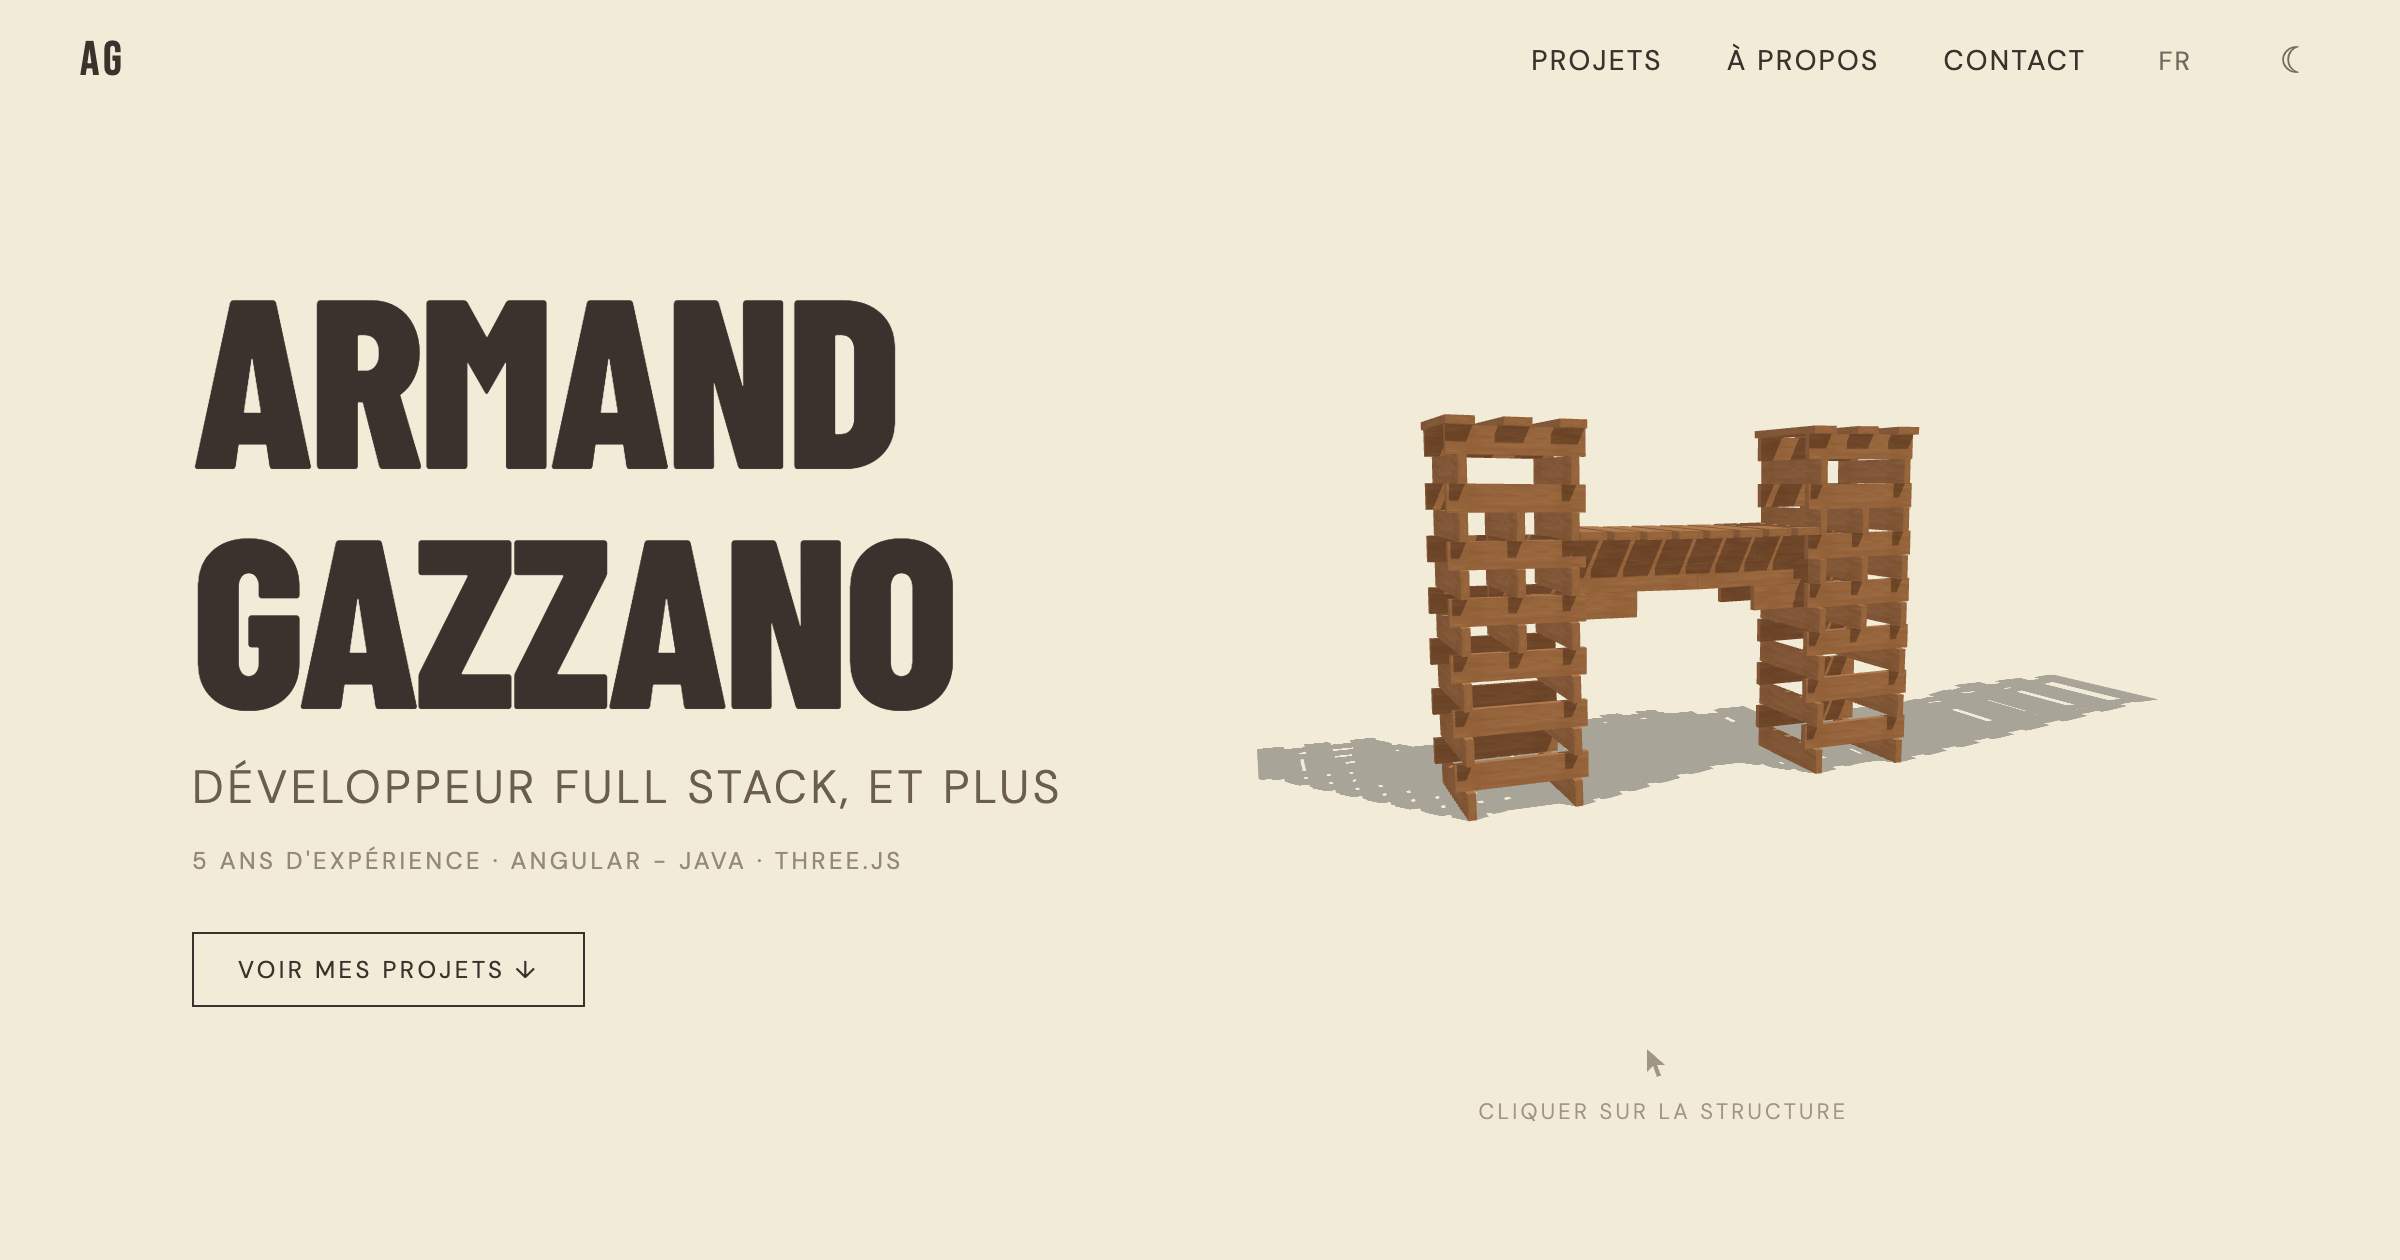
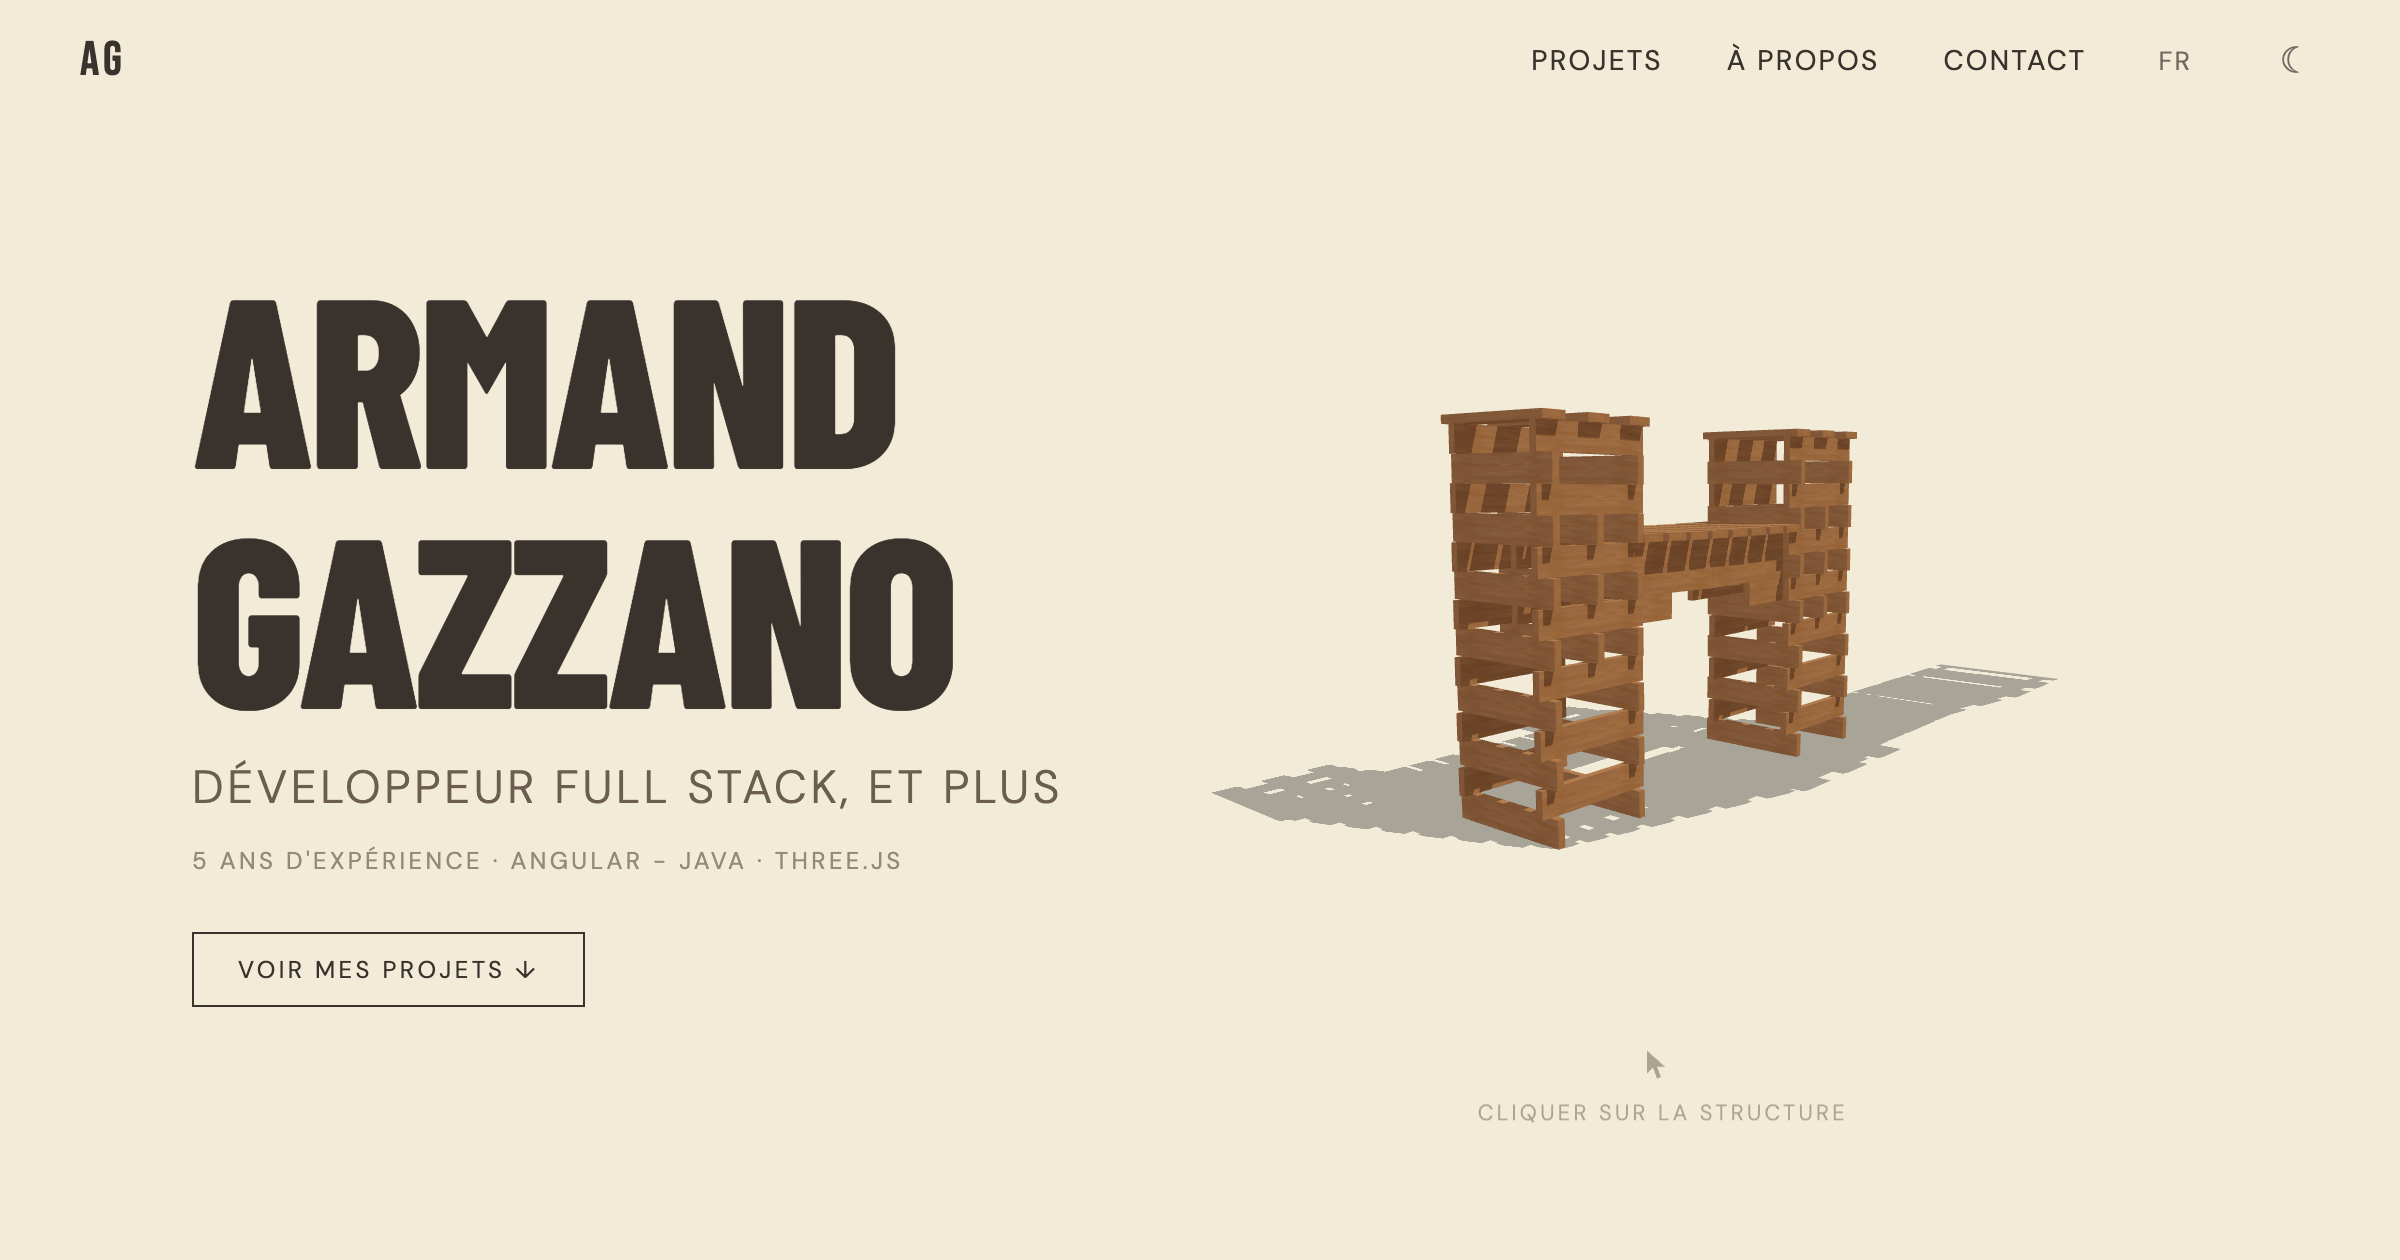
add gif showcasing project and add it to readme

Changed region(s): [[0.5, 0.3095, 0.9062, 0.681], [0.625, 0.8667, 0.6875, 0.8976], [0.7188, 0.8667, 0.75, 0.8976]]

diff --git a/README.md b/README.md
@@ -4,7 +4,7 @@ Interactive portfolio built around two 3D scenes — a procedural block structur
 
 **→ [armandgazzano.dev](https://armandgazzano.dev)**
 
-![Portfolio preview](public/og-image.png)
+![Portfolio preview](assets/portfolio.gif)
 
 ---
 
